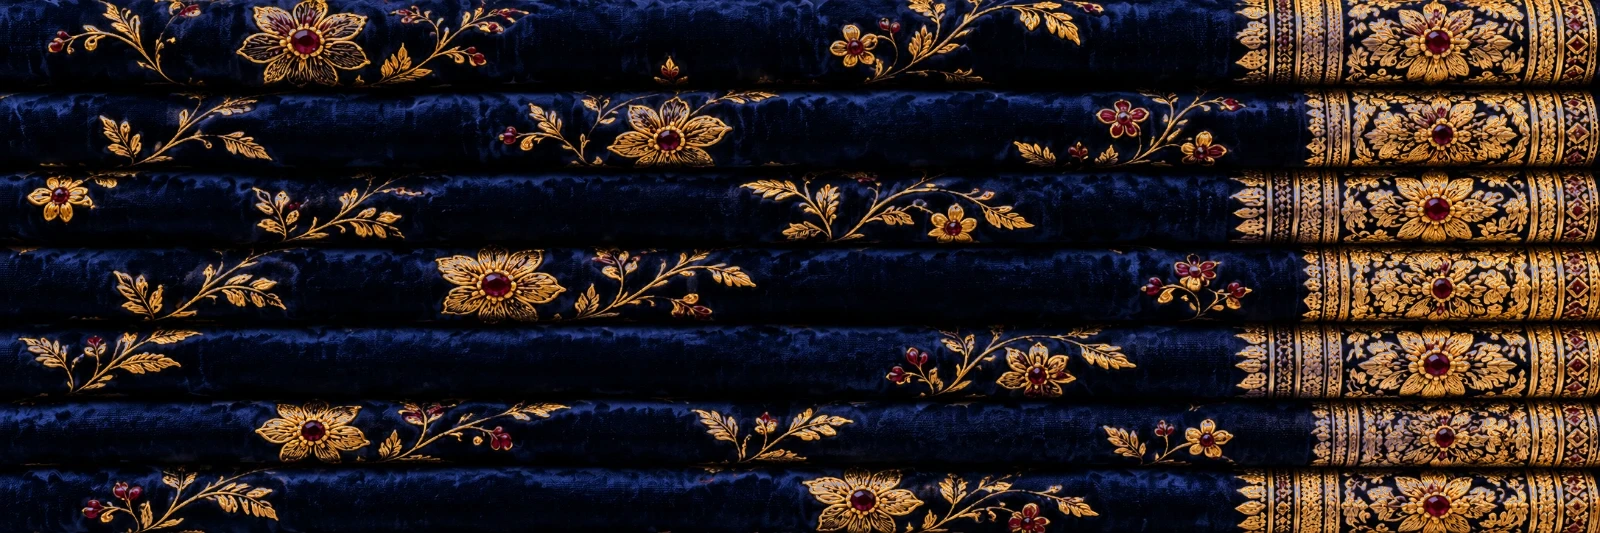
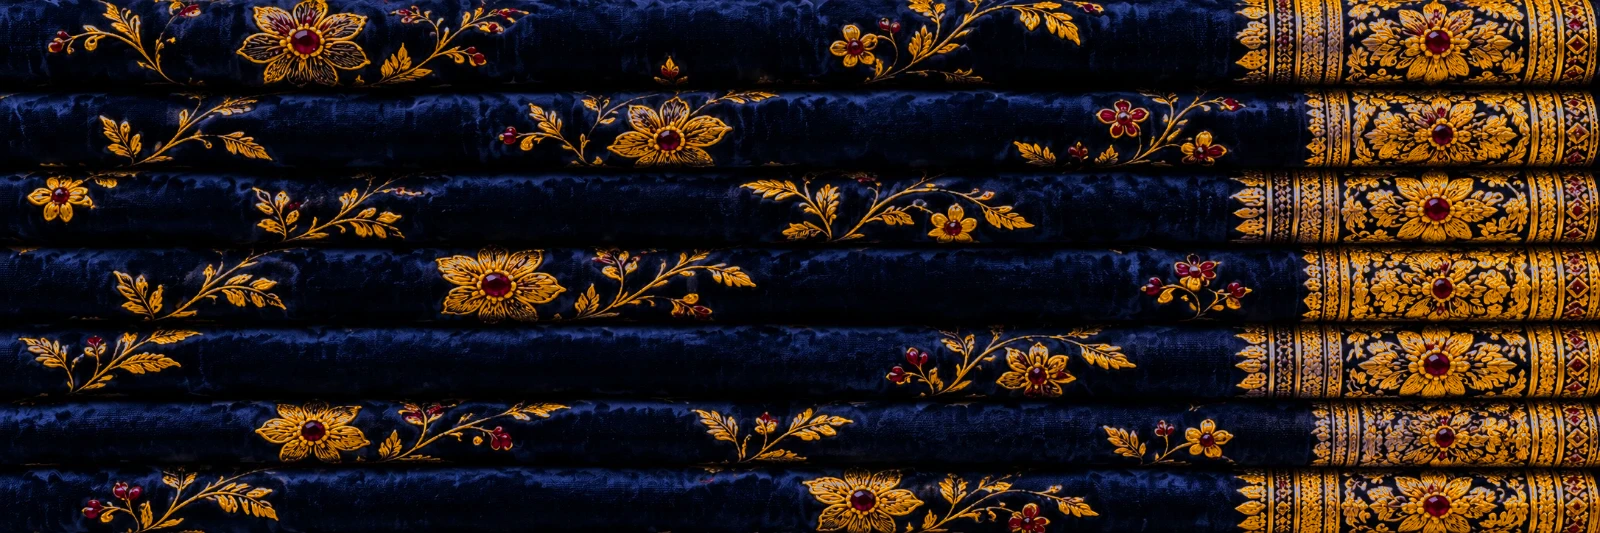
Bake richer gold and red/pink saturation into the saree textures

diff --git a/CLAUDE.md b/CLAUDE.md
@@ -256,6 +256,7 @@ Owner request: append an entry here after every change session.
 - **2026‑11‑05** — Owner: all sarees use the yellow's flat/hollow/layered shape, slightly varied. Every `SAREES` entry in `data.ts` now has a `shape` (thickness h / hollow / rim / ridge / layers / wave): maroon 0.40·0.10·0.10·6.5 layers, ivory 0.34·0.14·0.13·5 (thinnest, deepest dip), navy 0.42·0.09·0.10·7 (thickest, plushest), black 0.38·0.11·0.11·6, yellow unchanged. Thickness feeds geometry, half-extents and colliders automatically. Headless render: no errors.
 - **2026‑11‑05** — Owner: shorten the navbar. Past the hero (frosted/solid mode) the bar is now compact: logo `zoom: 0.68`, padding `pt-3 pb-2`, links `pt-1` → ≈75 px tall (was ≈130). The hero still shows the full-size logo; the full-screen menu state is unchanged. Edits in `Nav.tsx`.
 - **2026‑11‑05** — Owner: align the compact navbar items on one centre line. In solid mode the header is `items-center` (equal `pt-3 pb-3`), links/menu have no top offset, so logo, links and hamburger share the bar's vertical centre (bar ≈79 px). Hero layout unchanged.
+- **2026‑11‑05** — Owner: golds look washed out; reds/pinks too. `bake-drape-maps.mjs` now adds a **vibrance** pass after the tint: gold zari pixels (`goldness` mask) get saturation ×(1+0.7) and drift 35 % toward a true gold hue (≈42°); red/pink pixels (hue 316–360 & 0–16°, sat > 0.26) get ×(1+0.45); silk grounds and creams are untouched. Re-baked all `public/drape/{top,edge}-*-col.webp`. Tune `GOLD_SAT` / `RED_SAT` in the script and re-run it. Zari metalness/roughness maps unchanged.
 
 ## Next / ideas
 
